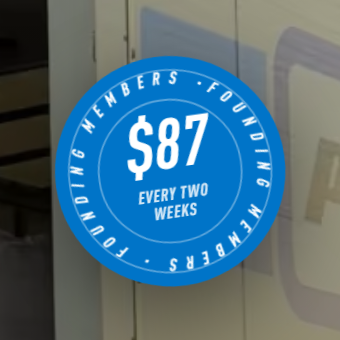
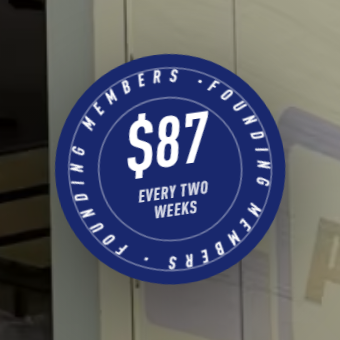
style(hero): the seal in the GB brand blue (navy)

diff --git a/src/styles/sections.css b/src/styles/sections.css
@@ -143,7 +143,7 @@
   margin-top: 22px;
 }
 /* o SELO azul (pedido do Adryan, "design similar ao da Collective, mas o nosso selo"):
-   disco cheio azul GB, dois filetes claros, o anel "Founding Members ·" girando (só o
+   disco cheio no azul GB da marca (--navy), dois filetes claros, o anel "Founding Members ·" girando (só o
    anel gira), $87 e "every two weeks" parados no centro, -8° fixo. Batido no canto
    de cima à direita do título, mordendo a primeira linha. */
 .hero__titlebox {
@@ -171,7 +171,7 @@
   overflow: visible;
 }
 .hero__seal-disc {
-  fill: var(--gb1);
+  fill: var(--navy); /* o azul GB da marca (o mesmo do rodapé e do ingresso) */
 }
 .hero__seal-line {
   fill: none;
